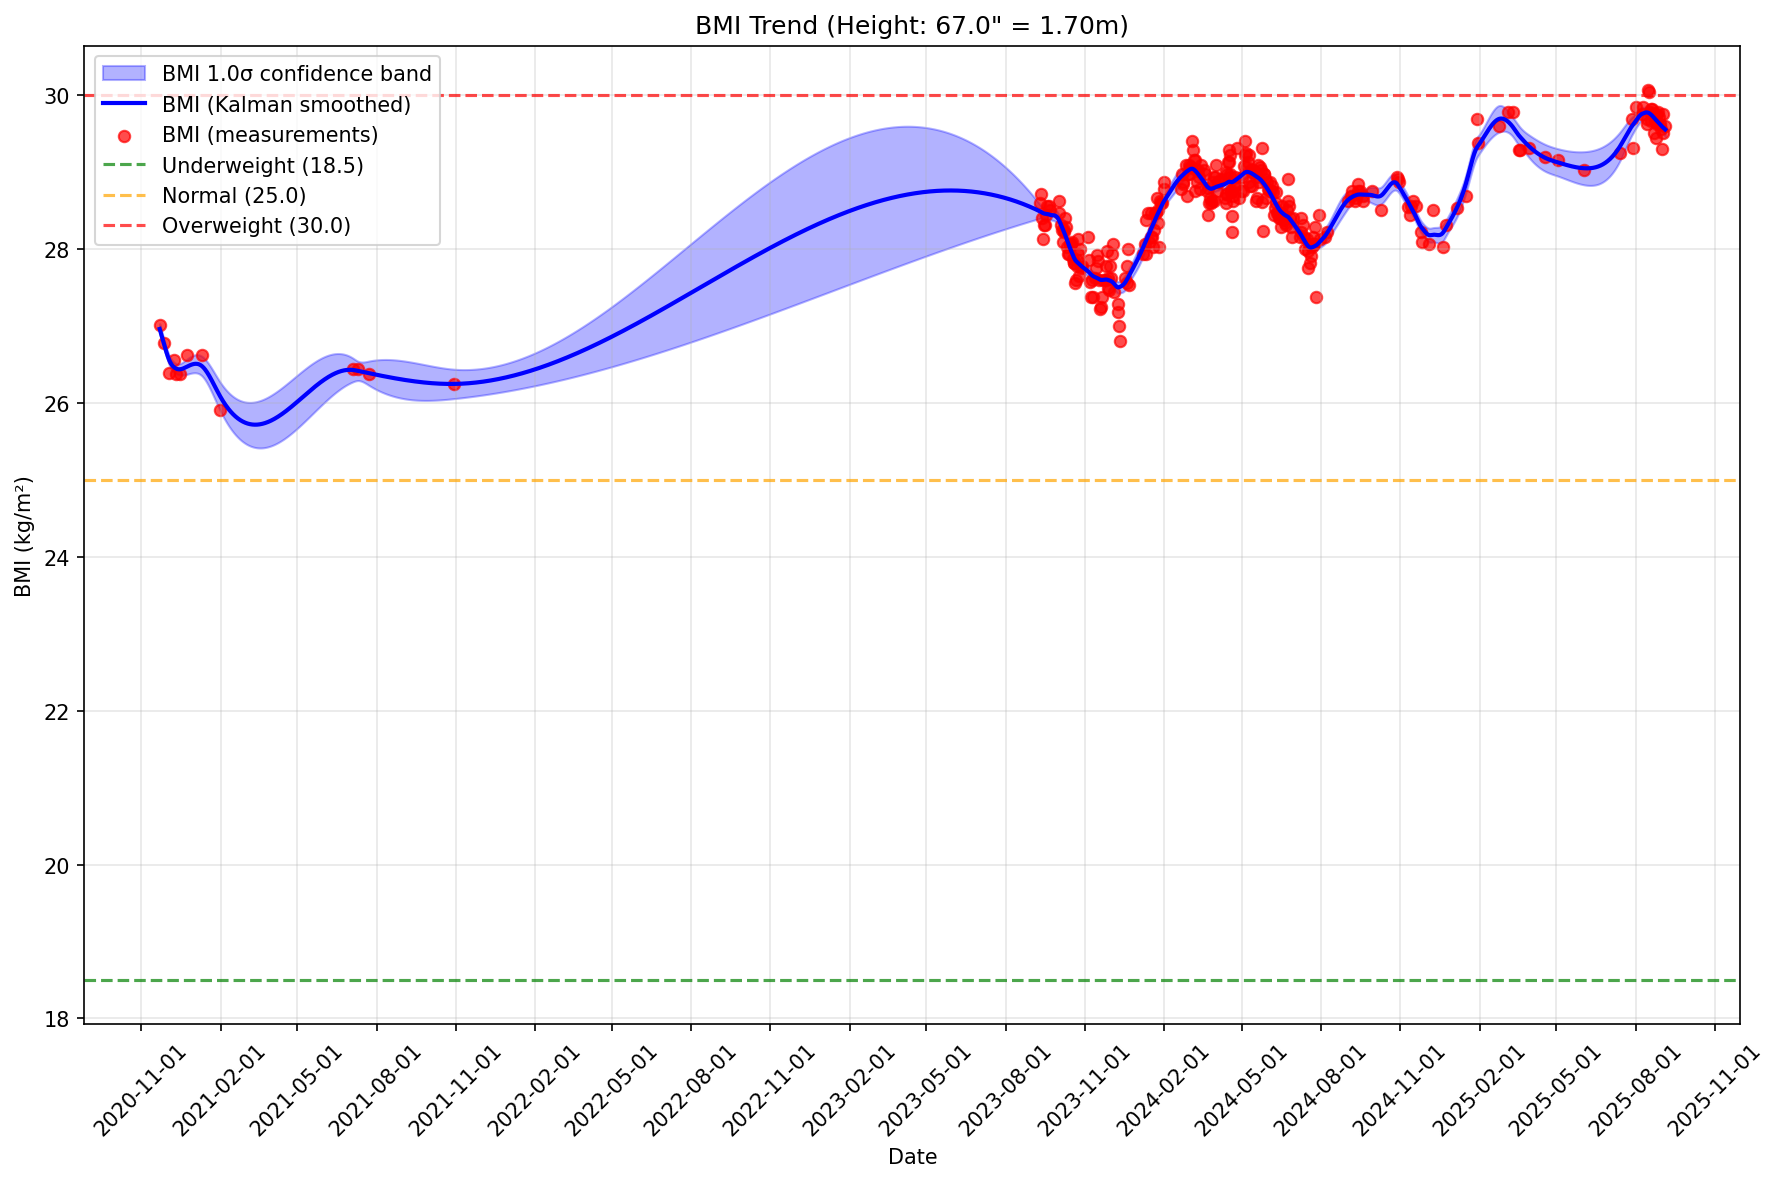
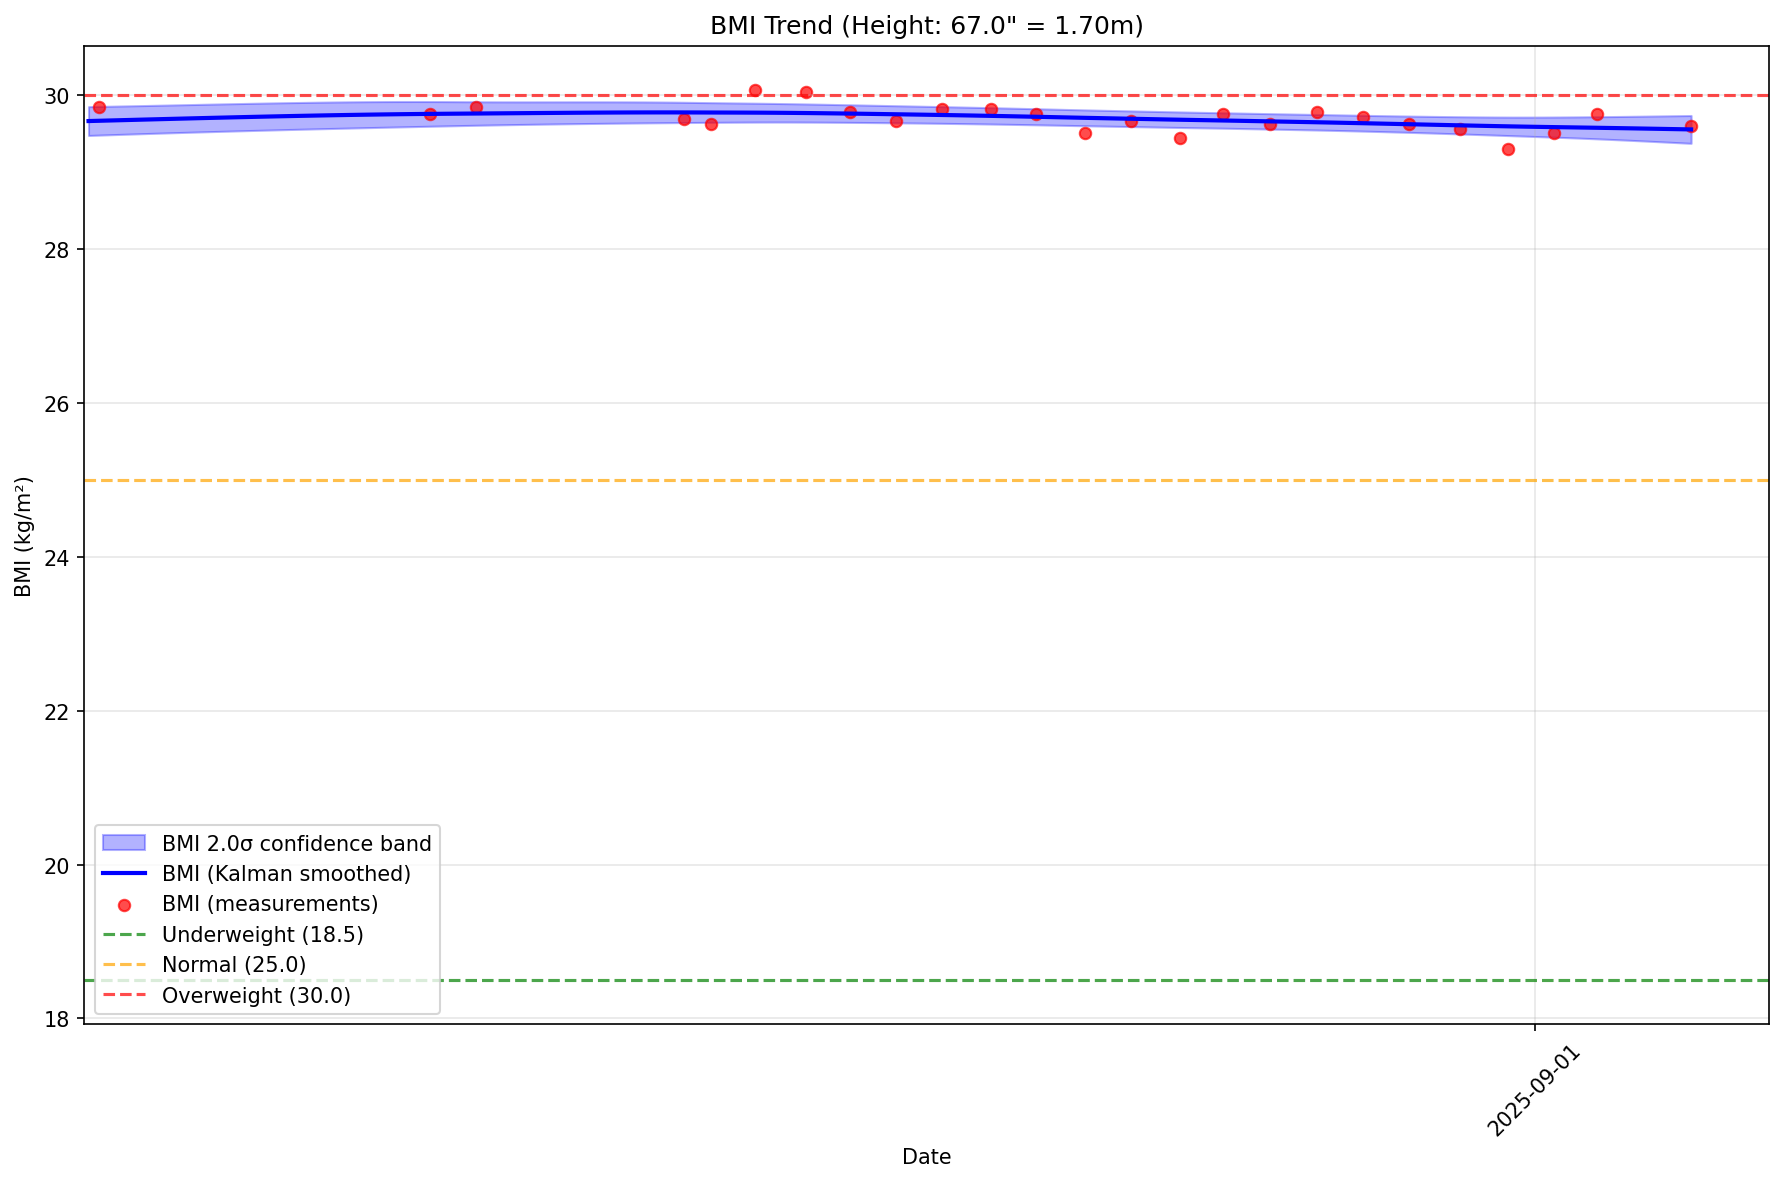
fixed datetime issues

diff --git a/kalman.py b/kalman.py
@@ -560,6 +560,8 @@ def create_kalman_plot(entries,
         dates: List of dates corresponding to states
         output_path: Path to save the plot
     """
+    from datetime import datetime as dt
+    
     if not entries or not states:
         return
     
@@ -568,11 +570,11 @@ def create_kalman_plot(entries,
     if start_date or end_date:
         if start_date:
             # Convert start_date to datetime at beginning of day
-            start_datetime = datetime.combine(start_date, datetime.min.time())
+            start_datetime = dt.combine(start_date, dt.min.time())
             filtered_entries = [e for e in filtered_entries if e.entry_datetime >= start_datetime]
         if end_date:
             # Convert end_date to datetime at end of day
-            end_datetime = datetime.combine(end_date, datetime.max.time())
+            end_datetime = dt.combine(end_date, dt.max.time())
             filtered_entries = [e for e in filtered_entries if e.entry_datetime <= end_datetime]
         
         if not filtered_entries:
@@ -600,7 +602,7 @@ def create_kalman_plot(entries,
         dense_means = filtered_dense_means
         dense_stds = filtered_dense_stds
     
-    entry_datetimes = [e.entry_datetime for e in filtered_entries]
+    entry_datetimes = [e.entry_datetime for e in entries]
     
     # Create plot with high-quality settings
     plt.figure(figsize=(12, 8), dpi=100)
@@ -624,7 +626,7 @@ def create_kalman_plot(entries,
              antialiased=True, solid_capstyle='round')
     
     # Plot raw data
-    raw_weights = [e.weight for e in filtered_entries]
+    raw_weights = [e.weight for e in entries]
     plt.scatter(entry_datetimes, raw_weights, s=50, color='blue', 
                 alpha=0.7, label='Raw Measurements', zorder=5)
     
@@ -680,6 +682,17 @@ Forecasts:
     plt.ylabel('Weight (lbs)')
     plt.grid(True, alpha=0.3)
     plt.legend()
+    
+    # Set x-axis limits based on date filtering
+    if start_date or end_date:
+        from datetime import datetime as dt
+        if start_date:
+            start_datetime = dt.combine(start_date, dt.min.time())
+            plt.xlim(left=start_datetime)
+        if end_date:
+            end_datetime = dt.combine(end_date, dt.max.time())
+            plt.xlim(right=end_datetime)
+    
     plt.tight_layout()
     
     plt.savefig(output_path, dpi=150, bbox_inches='tight')
@@ -748,17 +761,8 @@ def create_bodyfat_plot_from_kalman(
     if not entries or not states:
         return
 
-    # Filter entries by date range if specified
-    filtered_entries = entries
-    if start_date or end_date:
-        if start_date:
-            filtered_entries = [e for e in filtered_entries if e.entry_date >= start_date]
-        if end_date:
-            filtered_entries = [e for e in filtered_entries if e.entry_date <= end_date]
-        
-        if not filtered_entries:
-            print(f"Warning: No data in specified date range {start_date} to {end_date}")
-            return
+    # Note: We don't filter entries here because Kalman algorithm needs full dataset
+    # Date filtering will be applied to the dense grid later
 
     # Use smoothed Kalman mean and std over a dense date grid
     dense_datetimes, dense_means, dense_stds = compute_kalman_mean_std_spline(states, dates)
@@ -767,6 +771,10 @@ def create_bodyfat_plot_from_kalman(
     
     # Filter dense curves by date range if specified
     if start_date or end_date:
+        print(f"DEBUG: Filtering dense grid by date range: {start_date} to {end_date}")
+        print(f"DEBUG: Original dense grid has {len(dense_datetimes)} points")
+        print(f"DEBUG: Date range: {dense_datetimes[0].date()} to {dense_datetimes[-1].date()}")
+        
         filtered_dense_datetimes = []
         filtered_dense_means = []
         filtered_dense_stds = []
@@ -779,6 +787,12 @@ def create_bodyfat_plot_from_kalman(
             filtered_dense_datetimes.append(dt)
             filtered_dense_means.append(mean)
             filtered_dense_stds.append(std)
+        
+        print(f"DEBUG: After filtering, dense grid has {len(filtered_dense_datetimes)} points")
+        if not filtered_dense_datetimes:
+            print(f"DEBUG: No data in specified date range after filtering!")
+            return
+            
         dense_datetimes = filtered_dense_datetimes
         dense_means = filtered_dense_means
         dense_stds = filtered_dense_stds
@@ -812,8 +826,8 @@ def create_bodyfat_plot_from_kalman(
         bf_band_upper = [max(a, b) for a, b in zip(bf_mid_lo, bf_mid_hi)]
 
         # Entry points BF from entries and interpolated LBM
-        entry_datetimes = [e.entry_datetime for e in filtered_entries]
-        entry_weights = [float(e.weight) for e in filtered_entries]
+        entry_datetimes = [e.entry_datetime for e in entries]
+        entry_weights = [float(e.weight) for e in entries]
         entry_lbm = _evaluate_lbm_series(entry_datetimes, lbm_points)
         entry_bf_mid = [float(max(0.0, min(100.0, 100.0 * (1.0 - (l / max(1e-6, w))))))
                         for w, l in zip(entry_weights, entry_lbm)]
@@ -851,8 +865,8 @@ def create_bodyfat_plot_from_kalman(
         )
 
         # Scatter points for actual measurements under mid scenario
-        entry_datetimes = [e.entry_datetime for e in filtered_entries]
-        entry_weights = [float(e.weight) for e in filtered_entries]
+        entry_datetimes = [e.entry_datetime for e in entries]
+        entry_weights = [float(e.weight) for e in entries]
         entry_bf_mid = _compute_bodyfat_pct_from_weight(
             entry_weights, entry_datetimes, baseline_weight_lb, baseline_lean_lb, s_mid
         )
@@ -1000,6 +1014,17 @@ def create_bodyfat_plot_from_kalman(
     plt.ylabel("Body Fat (%)")
     plt.grid(True, alpha=0.3)
     plt.legend()
+    
+    # Set x-axis limits based on date filtering
+    if start_date or end_date:
+        from datetime import datetime as dt
+        if start_date:
+            start_datetime = dt.combine(start_date, dt.min.time())
+            plt.xlim(left=start_datetime)
+        if end_date:
+            end_datetime = dt.combine(end_date, dt.max.time())
+            plt.xlim(right=end_datetime)
+    
     plt.tight_layout()
     plt.savefig(output_path, dpi=150, bbox_inches="tight")
     if no_display:
@@ -1028,13 +1053,14 @@ def compute_residuals(entries, states, dates, start_date: Optional[date] = None,
     # Filter entries by date range if specified
     filtered_entries = entries
     if start_date or end_date:
+        from datetime import datetime as dt
         if start_date:
             # Convert start_date to datetime at beginning of day
-            start_datetime = datetime.combine(start_date, datetime.min.time())
+            start_datetime = dt.combine(start_date, dt.min.time())
             filtered_entries = [e for e in filtered_entries if e.entry_datetime >= start_datetime]
         if end_date:
             # Convert end_date to datetime at end of day
-            end_datetime = datetime.combine(end_date, datetime.max.time())
+            end_datetime = dt.combine(end_date, dt.max.time())
             filtered_entries = [e for e in filtered_entries if e.entry_datetime <= end_datetime]
         
         if not filtered_entries:
@@ -1091,17 +1117,8 @@ def create_bmi_plot_from_kalman(
         print(f"Warning: No height data found at {height_file}. BMI plot cannot be generated.")
         return
 
-    # Filter entries by date range if specified
-    filtered_entries = entries
-    if start_date or end_date:
-        if start_date:
-            filtered_entries = [e for e in filtered_entries if e.entry_date >= start_date]
-        if end_date:
-            filtered_entries = [e for e in filtered_entries if e.entry_date <= end_date]
-        
-        if not filtered_entries:
-            print(f"Warning: No data in specified date range {start_date} to {end_date}")
-            return
+    # Note: We don't filter entries here because Kalman algorithm needs full dataset
+    # Date filtering will be applied to the dense grid later
 
     # Use smoothed Kalman mean and std over a dense date grid
     dense_datetimes, dense_means, dense_stds = compute_kalman_mean_std_spline(states, dates)
@@ -1110,6 +1127,10 @@ def create_bmi_plot_from_kalman(
     
     # Filter dense curves by date range if specified
     if start_date or end_date:
+        print(f"DEBUG BMI: Filtering dense grid by date range: {start_date} to {end_date}")
+        print(f"DEBUG BMI: Original dense grid has {len(dense_datetimes)} points")
+        print(f"DEBUG BMI: Date range: {dense_datetimes[0].date()} to {dense_datetimes[-1].date()}")
+        
         filtered_dense_datetimes = []
         filtered_dense_means = []
         filtered_dense_stds = []
@@ -1122,6 +1143,12 @@ def create_bmi_plot_from_kalman(
             filtered_dense_datetimes.append(dt)
             filtered_dense_means.append(mean)
             filtered_dense_stds.append(std)
+        
+        print(f"DEBUG BMI: After filtering, dense grid has {len(filtered_dense_datetimes)} points")
+        if not filtered_dense_datetimes:
+            print(f"DEBUG BMI: No data in specified date range after filtering!")
+            return
+            
         dense_datetimes = filtered_dense_datetimes
         dense_means = filtered_dense_means
         dense_stds = filtered_dense_stds
@@ -1141,8 +1168,8 @@ def create_bmi_plot_from_kalman(
     bmi_hi = [(w * 0.453592) / (height_m ** 2) for w in weight_hi]
     
     # Calculate BMI for actual measurements
-    entry_datetimes = [e.entry_datetime for e in filtered_entries]
-    entry_weights = [float(e.weight) for e in filtered_entries]
+    entry_datetimes = [e.entry_datetime for e in entries]
+    entry_weights = [float(e.weight) for e in entries]
     entry_bmi = [(w * 0.453592) / (height_m ** 2) for w in entry_weights]
 
     # Plot
@@ -1184,6 +1211,17 @@ def create_bmi_plot_from_kalman(
     plt.gca().xaxis.set_major_formatter(plt.matplotlib.dates.DateFormatter("%Y-%m-%d"))
     plt.gca().xaxis.set_major_locator(plt.matplotlib.dates.MonthLocator(interval=3))
     plt.xticks(rotation=45)
+    
+    # Set x-axis limits based on date filtering
+    if start_date or end_date:
+        from datetime import datetime as dt
+        if start_date:
+            start_datetime = dt.combine(start_date, dt.min.time())
+            plt.xlim(left=start_datetime)
+        if end_date:
+            end_datetime = dt.combine(end_date, dt.max.time())
+            plt.xlim(right=end_datetime)
+    
     plt.tight_layout()
 
     plt.savefig(output_path, dpi=150, bbox_inches="tight")
@@ -1219,17 +1257,8 @@ def create_ffmi_plot_from_kalman(
         print(f"Warning: No height data found at {height_file}. FFMI plot cannot be generated.")
         return
 
-    # Filter entries by date range if specified
-    filtered_entries = entries
-    if start_date or end_date:
-        if start_date:
-            filtered_entries = [e for e in filtered_entries if e.entry_date >= start_date]
-        if end_date:
-            filtered_entries = [e for e in filtered_entries if e.entry_date <= end_date]
-        
-        if not filtered_entries:
-            print(f"Warning: No data in specified date range {start_date} to {end_date}")
-            return
+    # Note: We don't filter entries here because Kalman algorithm needs full dataset
+    # Date filtering will be applied to the dense grid later
 
     # Use smoothed Kalman mean and std over a dense date grid
     dense_datetimes, dense_means, dense_stds = compute_kalman_mean_std_spline(states, dates)
@@ -1238,6 +1267,10 @@ def create_ffmi_plot_from_kalman(
     
     # Filter dense curves by date range if specified
     if start_date or end_date:
+        print(f"DEBUG FFMI: Filtering dense grid by date range: {start_date} to {end_date}")
+        print(f"DEBUG FFMI: Original dense grid has {len(dense_datetimes)} points")
+        print(f"DEBUG FFMI: Date range: {dense_datetimes[0].date()} to {dense_datetimes[-1].date()}")
+        
         filtered_dense_datetimes = []
         filtered_dense_means = []
         filtered_dense_stds = []
@@ -1250,6 +1283,12 @@ def create_ffmi_plot_from_kalman(
             filtered_dense_datetimes.append(dt)
             filtered_dense_means.append(mean)
             filtered_dense_stds.append(std)
+        
+        print(f"DEBUG FFMI: After filtering, dense grid has {len(filtered_dense_datetimes)} points")
+        if not filtered_dense_datetimes:
+            print(f"DEBUG FFMI: No data in specified date range after filtering!")
+            return
+            
         dense_datetimes = filtered_dense_datetimes
         dense_means = filtered_dense_means
         dense_stds = filtered_dense_stds
@@ -1284,8 +1323,8 @@ def create_ffmi_plot_from_kalman(
         ffmi_hi = [(lbm * 0.453592) / (height_m ** 2) for lbm in lbm_hi]
         
         # Calculate FFMI for actual measurements
-        entry_datetimes = [e.entry_datetime for e in filtered_entries]
-        entry_weights = [float(e.weight) for e in filtered_entries]
+        entry_datetimes = [e.entry_datetime for e in entries]
+        entry_weights = [float(e.weight) for e in entries]
         entry_lbm = _evaluate_lbm_series(entry_datetimes, lbm_points)
         entry_ffmi = [(lbm * 0.453592) / (height_m ** 2) for lbm in entry_lbm]
     else:
@@ -1303,8 +1342,8 @@ def create_ffmi_plot_from_kalman(
         ffmi_hi = [(lbm * 0.453592) / (height_m ** 2) for lbm in lbm_hi]
         
         # Calculate FFMI for actual measurements
-        entry_datetimes = [e.entry_datetime for e in filtered_entries]
-        entry_weights = [float(e.weight) for e in filtered_entries]
+        entry_datetimes = [e.entry_datetime for e in entries]
+        entry_weights = [float(e.weight) for e in entries]
         entry_lbm = [w * (1.0 - estimated_bf) for w in entry_weights]
         entry_ffmi = [(lbm * 0.453592) / (height_m ** 2) for lbm in entry_lbm]
 
@@ -1348,6 +1387,17 @@ def create_ffmi_plot_from_kalman(
     plt.gca().xaxis.set_major_formatter(plt.matplotlib.dates.DateFormatter("%Y-%m-%d"))
     plt.gca().xaxis.set_major_locator(plt.matplotlib.dates.MonthLocator(interval=3))
     plt.xticks(rotation=45)
+    
+    # Set x-axis limits based on date filtering
+    if start_date or end_date:
+        from datetime import datetime as dt
+        if start_date:
+            start_datetime = dt.combine(start_date, dt.min.time())
+            plt.xlim(left=start_datetime)
+        if end_date:
+            end_datetime = dt.combine(end_date, dt.max.time())
+            plt.xlim(right=end_datetime)
+    
     plt.tight_layout()
 
     plt.savefig(output_path, dpi=150, bbox_inches="tight")

diff --git a/weight_tracker.py b/weight_tracker.py
@@ -392,6 +392,15 @@ def render_plot(entries: List[WeightEntry], ema_curve_dates: List[datetime], ema
     ax.text(0.02, 0.02, rate_text, transform=ax.transAxes, ha="left", va="bottom", fontsize=10,
             bbox=dict(boxstyle="round", facecolor="white", alpha=0.85, edgecolor="#cccccc"), zorder=10)
 
+    # Set x-axis limits based on date filtering
+    if start_date or end_date:
+        if start_date:
+            start_datetime = datetime.combine(start_date, datetime.min.time())
+            plt.xlim(left=start_datetime)
+        if end_date:
+            end_datetime = datetime.combine(end_date, datetime.max.time())
+            plt.xlim(right=end_datetime)
+
     plt.tight_layout()
     plt.savefig(output_path, dpi=150)
     if no_display:
@@ -604,7 +613,10 @@ def main() -> None:
     ci_multiplier = get_confidence_multiplier(args.confidence_interval)
     
     # Run Kalman algorithm if any Kalman-dependent plots are requested
+    # Note: We run Kalman if weight plot OR any other Kalman-dependent plots are enabled
+    print(f"DEBUG: Plot flags - no_kalman_plot: {args.no_kalman_plot}, no_bodyfat_plot: {args.no_bodyfat_plot}, no_bmi_plot: {args.no_bmi_plot}, no_ffmi_plot: {args.no_ffmi_plot}")
     if not args.no_kalman_plot or not args.no_bodyfat_plot or not args.no_bmi_plot or not args.no_ffmi_plot:
+        print("DEBUG: Running Kalman algorithm...")
         try:
             # Run Kalman algorithm per mode
             if args.kalman_mode == "smoother":
@@ -614,10 +626,13 @@ def main() -> None:
             else:
                 kalman_states, kalman_dates = run_kalman_filter(entries)
                 plot_label = "Kalman Filter Estimate"
+            print(f"DEBUG: Kalman algorithm completed successfully. States: {len(kalman_states) if kalman_states else 0}")
         except Exception as e:
             print(f"Failed to run Kalman filter: {e}")
             kalman_states = None
             kalman_dates = None
+    else:
+        print("DEBUG: Kalman algorithm not run - no Kalman-dependent plots enabled")
     
     if kalman_states:
         # Create Kalman filter plot (if not disabled)
